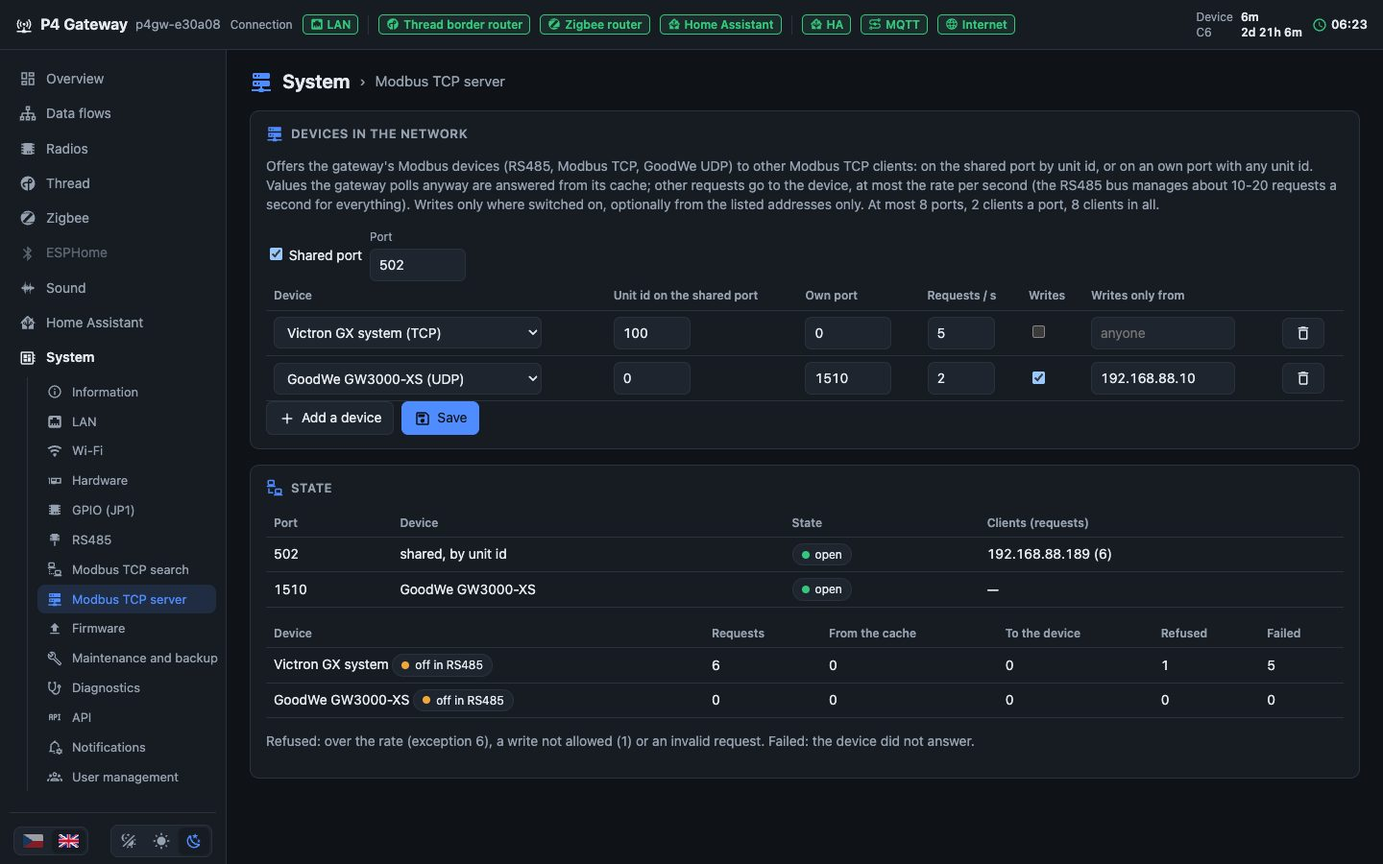
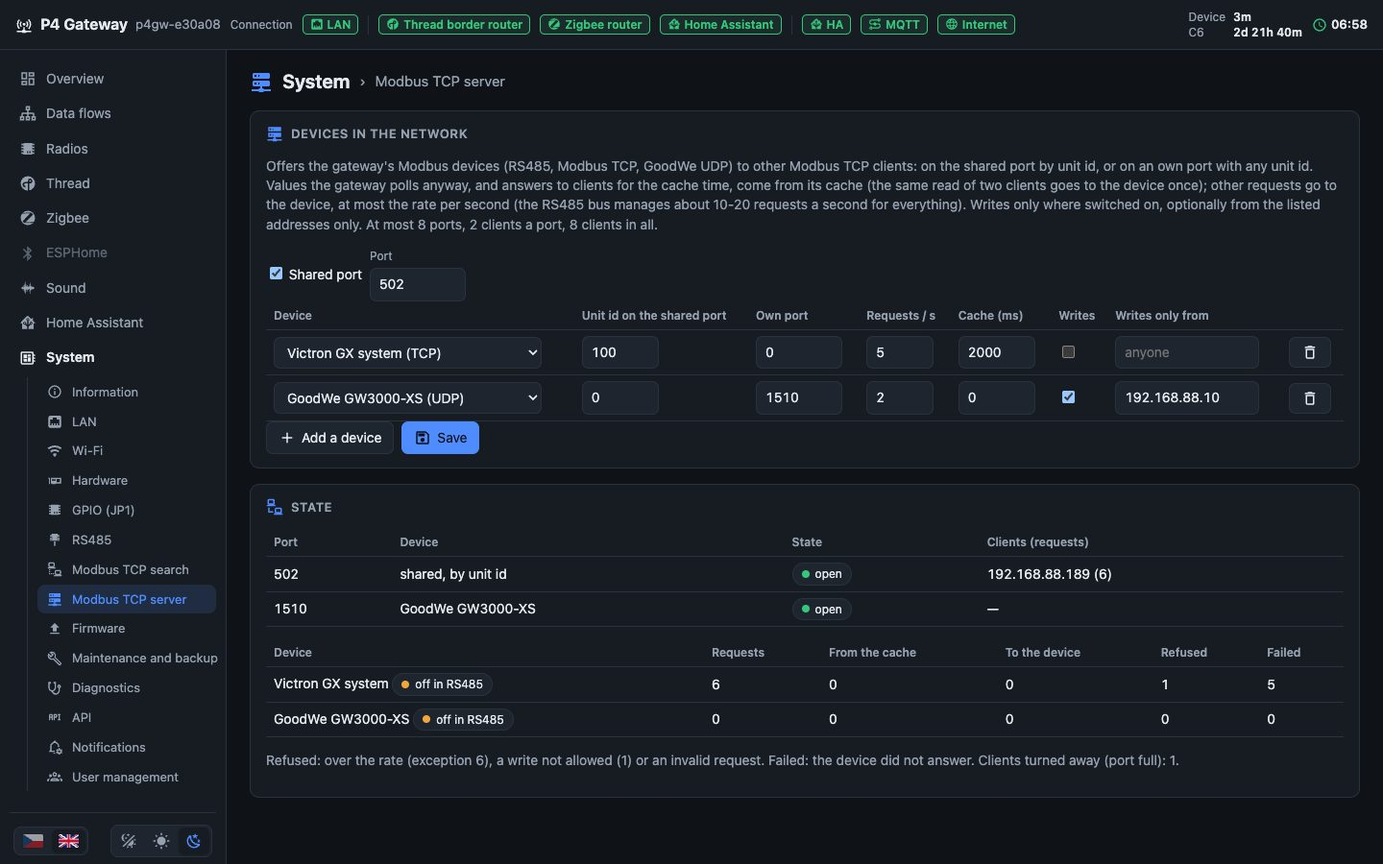
Docs: Modbus TCP server cache, queue and new load test results

diff --git a/documentation/cs/index.html b/documentation/cs/index.html
@@ -225,12 +225,12 @@
        <li>Modul Wi-Fi GoodWe (XS, MS, D-NS) odpovídá jen na UDP 8899: nechte zaškrtnuté <i>Moduly GoodWe na UDP 8899</i>, přidá se s připojením GoodWe UDP a jednotkou 127.</li></ol></div>
 <details><summary>Celá stránka (1)</summary><div class="fulls"><figure><a href="../screenshots/system_mbscan.jpg" class="zoom"><img class="shot full" src="../screenshots/system_mbscan.jpg" alt="Systém › Hledání Modbus TCP" width="1440" height="900" loading="lazy"></a><figcaption>Celá stránka</figcaption></figure></div></details>
 </section><section class="card wide" id="system-mbserver"><h3><svg class="mdi" viewBox="0 0 24 24" aria-hidden="true"><path d="M13,19H14A1,1 0 0,1 15,20H22V22H15A1,1 0 0,1 14,23H10A1,1 0 0,1 9,22H2V20H9A1,1 0 0,1 10,19H11V17H4A1,1 0 0,1 3,16V12A1,1 0 0,1 4,11H20A1,1 0 0,1 21,12V16A1,1 0 0,1 20,17H13V19M4,3H20A1,1 0 0,1 21,4V8A1,1 0 0,1 20,9H4A1,1 0 0,1 3,8V4A1,1 0 0,1 4,3M9,7H10V5H9V7M9,15H10V13H9V15M5,5V7H7V5H5M5,13V15H7V13H5Z"/></svg><span>Systém › Server Modbus TCP</span></h3><p>Nabídne zařízení Modbus brány dalším klientům Modbus TCP v síti (Victron, SCADA, PLC, aplikace výrobce).</p>
-<div class="item"><div class="item-text"><h4>Zařízení v síti</h4><p>Sdílený port (výchozí 502) a nabídnutá zařízení: unit id na něm (0: tam ne), vlastní port (zařízení dosáhne jakékoli unit id; pro klienty pevně na jednotce 1 nebo 255), dotazů za sekundu na zařízení, zápis a adresy, které smějí zapisovat (prázdné: kdokoli v síti).</p></div><div class="item-pic"><a href="../screenshots/system_mbserver__1.jpg" class="zoom"><img class="shot" src="../screenshots/system_mbserver__1.jpg" alt="DEVICES IN THE NETWORK" width="1156" height="353" loading="lazy"></a></div></div>
-<div class="item"><div class="item-text"><h4>Stav</h4><p>Každý port s klienty a po zařízeních dotazy zodpovězené z cache, poslané na zařízení, odmítnuté (nad limit: výjimka 6, nepovolený zápis: 1) a neúspěšné (bez odpovědi: 11).</p></div><div class="item-pic"><a href="../screenshots/system_mbserver__2.jpg" class="zoom"><img class="shot" src="../screenshots/system_mbserver__2.jpg" alt="STATE" width="1156" height="329" loading="lazy"></a></div></div>
+<div class="item"><div class="item-text"><h4>Zařízení v síti</h4><p>Sdílený port (výchozí 502) a nabídnutá zařízení: unit id na něm (0: tam ne), vlastní port (zařízení dosáhne jakékoli unit id; pro klienty pevně na jednotce 1 nebo 255), dotazů za sekundu na zařízení, doba cache (jak dlouho odpověď klientovi slouží dalším; 0: každé čtení na zařízení), zápis a adresy, které smějí zapisovat (prázdné: kdokoli v síti).</p></div><div class="item-pic"><a href="../screenshots/system_mbserver__1.jpg" class="zoom"><img class="shot" src="../screenshots/system_mbserver__1.jpg" alt="DEVICES IN THE NETWORK" width="1156" height="373" loading="lazy"></a></div></div>
+<div class="item"><div class="item-text"><h4>Stav</h4><p>Každý port s klienty a po zařízeních dotazy zodpovězené z cache, poslané na zařízení, odmítnuté (nad limit: výjimka 6, nepovolený zápis: 1) a neúspěšné (bez odpovědi: 11).</p></div><div class="item-pic"><a href="../screenshots/system_mbserver__2.jpg" class="zoom"><img class="shot" src="../screenshots/system_mbserver__2.jpg" alt="STATE" width="1156" height="328" loading="lazy"></a></div></div>
 <div class="howto"><h4><svg class="mdi" viewBox="0 0 24 24" aria-hidden="true"><path d="M14 10H3V12H14V10M14 6H3V8H14V6M3 16H10V14H3V16M21.5 11.5L23 13L16 20L11.5 15.5L13 14L16 17L21.5 11.5Z"/></svg>Postup</h4><ol><li>Nejdřív přidejte zařízení v Systém › RS485 (RS485, Modbus TCP nebo GoodWe UDP).</li>
        <li><b>Přidat zařízení</b>, zvolte ho, dejte mu unit id na sdíleném portu a/nebo vlastní port, <b>Uložit</b>.</li>
        <li>V klientovi zadejte adresu brány, port 502 s tím unit id (nebo vlastní port).</li>
-       <li>Hodnoty, které brána beztak čte, jdou z cache v rámci intervalu čtení a zařízení nezatěžují; ostatní registry jdou na zařízení, nejvýš v nastaveném limitu. Sběrnice RS485 zvládne zhruba 10–20 dotazů za sekundu na všechno (<a href="https://github.com/KinDR007/jc-esp32p4-ha-gateway/blob/main/docs/modbus.md#modbus-tcp-server">modbus.md</a>).</li>
+       <li>Hodnoty, které brána beztak čte, jdou z cache v rámci intervalu čtení, odpovědi klientům po dobu cache; stejné čtení dvou klientů jde na zařízení jednou. Ostatní registry jdou na zařízení, nejvýš v nastaveném limitu. Sběrnice RS485 zvládne zhruba 10–20 dotazů za sekundu na všechno (<a href="https://github.com/KinDR007/jc-esp32p4-ha-gateway/blob/main/docs/modbus.md#modbus-tcp-server">modbus.md</a>).</li>
        <li>Modbus TCP nemá přihlášení: zápis zapněte jen kde je potřeba a uveďte adresu klienta.</li></ol></div>
 <details><summary>Celá stránka (1)</summary><div class="fulls"><figure><a href="../screenshots/system_mbserver.jpg" class="zoom"><img class="shot full" src="../screenshots/system_mbserver.jpg" alt="Systém › Server Modbus TCP" width="1440" height="900" loading="lazy"></a><figcaption>Celá stránka</figcaption></figure></div></details>
 </section><section class="card wide" id="system-firmware-online"><h3><svg class="mdi" viewBox="0 0 24 24" aria-hidden="true"><path d="M6.5 20Q4.22 20 2.61 18.43 1 16.85 1 14.58 1 12.63 2.17 11.1 3.35 9.57 5.25 9.15 5.68 7.35 7.38 5.73 9.07 4.1 11 4.1 11.83 4.1 12.41 4.69 13 5.28 13 6.1V12.15L14.6 10.6L16 12L12 16L8 12L9.4 10.6L11 12.15V6.1Q9.1 6.45 8.05 7.94 7 9.43 7 11H6.5Q5.05 11 4.03 12.03 3 13.05 3 14.5 3 15.95 4.03 17 5.05 18 6.5 18H18.5Q19.55 18 20.27 17.27 21 16.55 21 15.5 21 14.45 20.27 13.73 19.55 13 18.5 13H17V11Q17 9.8 16.45 8.76 15.9 7.73 15 7V4.68Q16.85 5.55 17.93 7.26 19 9 19 11 20.73 11.2 21.86 12.5 23 13.78 23 15.5 23 17.38 21.69 18.69 20.38 20 18.5 20M12 11.05Z"/></svg><span>Systém › Firmware › Online aktualizace</span></h3><p>Aktualizace z manifestu (výchozí je poslední vydání na GitHubu), starší vydání (návrat zpět).</p>
@@ -733,7 +733,8 @@ advanced:
       &quot;port&quot;: 1502,
       &quot;write&quot;: false,
       &quot;allow&quot;: [],
-      &quot;rate&quot;: 5
+      &quot;rate&quot;: 5,
+      &quot;cache_ms&quot;: 2000
     },
     {
       &quot;device&quot;: &quot;d2&quot;,
@@ -743,7 +744,8 @@ advanced:
       &quot;allow&quot;: [
         &quot;192.168.88.20&quot;
       ],
-      &quot;rate&quot;: 2
+      &quot;rate&quot;: 2,
+      &quot;cache_ms&quot;: 2000
     }
   ]
 }</pre></details></td><td>system/rs485 · úpravy</td></tr>

diff --git a/documentation/en/index.html b/documentation/en/index.html
@@ -225,12 +225,12 @@
        <li>A GoodWe Wi-Fi module (XS, MS, D-NS) answers only on UDP 8899: keep <i>GoodWe dongles on UDP 8899</i> checked, it is added on connection GoodWe UDP with unit 127.</li></ol></div>
 <details><summary>Whole page (1)</summary><div class="fulls"><figure><a href="../screenshots/system_mbscan.jpg" class="zoom"><img class="shot full" src="../screenshots/system_mbscan.jpg" alt="System › Modbus TCP search" width="1440" height="900" loading="lazy"></a><figcaption>Whole page</figcaption></figure></div></details>
 </section><section class="card wide" id="system-mbserver"><h3><svg class="mdi" viewBox="0 0 24 24" aria-hidden="true"><path d="M13,19H14A1,1 0 0,1 15,20H22V22H15A1,1 0 0,1 14,23H10A1,1 0 0,1 9,22H2V20H9A1,1 0 0,1 10,19H11V17H4A1,1 0 0,1 3,16V12A1,1 0 0,1 4,11H20A1,1 0 0,1 21,12V16A1,1 0 0,1 20,17H13V19M4,3H20A1,1 0 0,1 21,4V8A1,1 0 0,1 20,9H4A1,1 0 0,1 3,8V4A1,1 0 0,1 4,3M9,7H10V5H9V7M9,15H10V13H9V15M5,5V7H7V5H5M5,13V15H7V13H5Z"/></svg><span>System › Modbus TCP server</span></h3><p>Offers the gateway's Modbus devices to other Modbus TCP clients in the network (Victron, SCADA, a PLC, a vendor app).</p>
-<div class="item"><div class="item-text"><h4>Devices in the network</h4><p>The shared port (default 502) and the devices offered: unit id there (0: not there), own port (any unit id reaches the device; for clients fixed to unit 1 or 255), requests per second to the device, writes and the addresses allowed to write (empty: anyone in the network).</p></div><div class="item-pic"><a href="../screenshots/system_mbserver__1.jpg" class="zoom"><img class="shot" src="../screenshots/system_mbserver__1.jpg" alt="DEVICES IN THE NETWORK" width="1156" height="353" loading="lazy"></a></div></div>
-<div class="item"><div class="item-text"><h4>State</h4><p>Every port with its clients, and per device the requests answered from the cache, sent to the device, refused (over the rate: exception 6, a write not allowed: 1) and failed (no answer: 11).</p></div><div class="item-pic"><a href="../screenshots/system_mbserver__2.jpg" class="zoom"><img class="shot" src="../screenshots/system_mbserver__2.jpg" alt="STATE" width="1156" height="329" loading="lazy"></a></div></div>
+<div class="item"><div class="item-text"><h4>Devices in the network</h4><p>The shared port (default 502) and the devices offered: unit id there (0: not there), own port (any unit id reaches the device; for clients fixed to unit 1 or 255), requests per second to the device, cache time (how long an answer to a client serves the next ones; 0: every read to the device), writes and the addresses allowed to write (empty: anyone in the network).</p></div><div class="item-pic"><a href="../screenshots/system_mbserver__1.jpg" class="zoom"><img class="shot" src="../screenshots/system_mbserver__1.jpg" alt="DEVICES IN THE NETWORK" width="1156" height="373" loading="lazy"></a></div></div>
+<div class="item"><div class="item-text"><h4>State</h4><p>Every port with its clients, and per device the requests answered from the cache, sent to the device, refused (over the rate: exception 6, a write not allowed: 1) and failed (no answer: 11).</p></div><div class="item-pic"><a href="../screenshots/system_mbserver__2.jpg" class="zoom"><img class="shot" src="../screenshots/system_mbserver__2.jpg" alt="STATE" width="1156" height="328" loading="lazy"></a></div></div>
 <div class="howto"><h4><svg class="mdi" viewBox="0 0 24 24" aria-hidden="true"><path d="M14 10H3V12H14V10M14 6H3V8H14V6M3 16H10V14H3V16M21.5 11.5L23 13L16 20L11.5 15.5L13 14L16 17L21.5 11.5Z"/></svg>How to</h4><ol><li>Add the device under System › RS485 first (RS485, Modbus TCP or GoodWe UDP).</li>
        <li><b>Add a device</b>, choose it, give it a unit id on the shared port and/or an own port, <b>Save</b>.</li>
        <li>Point the client to the gateway's address, port 502 with that unit id (or the own port).</li>
-       <li>Values the gateway reads anyway come from its cache within the read interval and do not load the device; other registers go to the device, at most the set rate. The RS485 bus manages about 10-20 requests a second for everything (<a href="https://github.com/KinDR007/jc-esp32p4-ha-gateway/blob/main/docs/modbus.md#modbus-tcp-server">modbus.md</a>).</li>
+       <li>Values the gateway reads anyway come from its cache within the read interval, answers to clients for the cache time; the same read of two clients goes to the device once. Other registers go to the device, at most the set rate. The RS485 bus manages about 10-20 requests a second for everything (<a href="https://github.com/KinDR007/jc-esp32p4-ha-gateway/blob/main/docs/modbus.md#modbus-tcp-server">modbus.md</a>).</li>
        <li>Modbus TCP has no sign-in: switch writes on only where needed and list the client's address.</li></ol></div>
 <details><summary>Whole page (1)</summary><div class="fulls"><figure><a href="../screenshots/system_mbserver.jpg" class="zoom"><img class="shot full" src="../screenshots/system_mbserver.jpg" alt="System › Modbus TCP server" width="1440" height="900" loading="lazy"></a><figcaption>Whole page</figcaption></figure></div></details>
 </section><section class="card wide" id="system-firmware-online"><h3><svg class="mdi" viewBox="0 0 24 24" aria-hidden="true"><path d="M6.5 20Q4.22 20 2.61 18.43 1 16.85 1 14.58 1 12.63 2.17 11.1 3.35 9.57 5.25 9.15 5.68 7.35 7.38 5.73 9.07 4.1 11 4.1 11.83 4.1 12.41 4.69 13 5.28 13 6.1V12.15L14.6 10.6L16 12L12 16L8 12L9.4 10.6L11 12.15V6.1Q9.1 6.45 8.05 7.94 7 9.43 7 11H6.5Q5.05 11 4.03 12.03 3 13.05 3 14.5 3 15.95 4.03 17 5.05 18 6.5 18H18.5Q19.55 18 20.27 17.27 21 16.55 21 15.5 21 14.45 20.27 13.73 19.55 13 18.5 13H17V11Q17 9.8 16.45 8.76 15.9 7.73 15 7V4.68Q16.85 5.55 17.93 7.26 19 9 19 11 20.73 11.2 21.86 12.5 23 13.78 23 15.5 23 17.38 21.69 18.69 20.38 20 18.5 20M12 11.05Z"/></svg><span>System › Firmware › Online update</span></h3><p>Updates from the manifest (by default the latest GitHub release), older releases (rollback).</p>
@@ -733,7 +733,8 @@ advanced:
       &quot;port&quot;: 1502,
       &quot;write&quot;: false,
       &quot;allow&quot;: [],
-      &quot;rate&quot;: 5
+      &quot;rate&quot;: 5,
+      &quot;cache_ms&quot;: 2000
     },
     {
       &quot;device&quot;: &quot;d2&quot;,
@@ -743,7 +744,8 @@ advanced:
       &quot;allow&quot;: [
         &quot;192.168.88.20&quot;
       ],
-      &quot;rate&quot;: 2
+      &quot;rate&quot;: 2,
+      &quot;cache_ms&quot;: 2000
     }
   ]
 }</pre></details></td><td>system/rs485 · edit</td></tr>

diff --git a/tools/docs/build_docs.py b/tools/docs/build_docs.py
@@ -436,19 +436,19 @@ PAGES = [
     ("system/mbserver", "server-network", T("System › Modbus TCP server", "Systém › Server Modbus TCP"),
      T("Offers the gateway's Modbus devices to other Modbus TCP clients in the network (Victron, SCADA, a PLC, a vendor app).",
        "Nabídne zařízení Modbus brány dalším klientům Modbus TCP v síti (Victron, SCADA, PLC, aplikace výrobce)."),
-     {"DEVICES IN THE NETWORK": T("The shared port (default 502) and the devices offered: unit id there (0: not there), own port (any unit id reaches the device; for clients fixed to unit 1 or 255), requests per second to the device, writes and the addresses allowed to write (empty: anyone in the network).",
-                                  "Sdílený port (výchozí 502) a nabídnutá zařízení: unit id na něm (0: tam ne), vlastní port (zařízení dosáhne jakékoli unit id; pro klienty pevně na jednotce 1 nebo 255), dotazů za sekundu na zařízení, zápis a adresy, které smějí zapisovat (prázdné: kdokoli v síti)."),
+     {"DEVICES IN THE NETWORK": T("The shared port (default 502) and the devices offered: unit id there (0: not there), own port (any unit id reaches the device; for clients fixed to unit 1 or 255), requests per second to the device, cache time (how long an answer to a client serves the next ones; 0: every read to the device), writes and the addresses allowed to write (empty: anyone in the network).",
+                                  "Sdílený port (výchozí 502) a nabídnutá zařízení: unit id na něm (0: tam ne), vlastní port (zařízení dosáhne jakékoli unit id; pro klienty pevně na jednotce 1 nebo 255), dotazů za sekundu na zařízení, doba cache (jak dlouho odpověď klientovi slouží dalším; 0: každé čtení na zařízení), zápis a adresy, které smějí zapisovat (prázdné: kdokoli v síti)."),
       "STATE": T("Every port with its clients, and per device the requests answered from the cache, sent to the device, refused (over the rate: exception 6, a write not allowed: 1) and failed (no answer: 11).",
                  "Každý port s klienty a po zařízeních dotazy zodpovězené z cache, poslané na zařízení, odmítnuté (nad limit: výjimka 6, nepovolený zápis: 1) a neúspěšné (bez odpovědi: 11).")},
      T("""<ol><li>Add the device under System › RS485 first (RS485, Modbus TCP or GoodWe UDP).</li>
        <li><b>Add a device</b>, choose it, give it a unit id on the shared port and/or an own port, <b>Save</b>.</li>
        <li>Point the client to the gateway's address, port 502 with that unit id (or the own port).</li>
-       <li>Values the gateway reads anyway come from its cache within the read interval and do not load the device; other registers go to the device, at most the set rate. The RS485 bus manages about 10-20 requests a second for everything (<a href=\"https://github.com/KinDR007/jc-esp32p4-ha-gateway/blob/main/docs/modbus.md#modbus-tcp-server\">modbus.md</a>).</li>
+       <li>Values the gateway reads anyway come from its cache within the read interval, answers to clients for the cache time; the same read of two clients goes to the device once. Other registers go to the device, at most the set rate. The RS485 bus manages about 10-20 requests a second for everything (<a href=\"https://github.com/KinDR007/jc-esp32p4-ha-gateway/blob/main/docs/modbus.md#modbus-tcp-server\">modbus.md</a>).</li>
        <li>Modbus TCP has no sign-in: switch writes on only where needed and list the client's address.</li></ol>""",
        """<ol><li>Nejdřív přidejte zařízení v Systém › RS485 (RS485, Modbus TCP nebo GoodWe UDP).</li>
        <li><b>Přidat zařízení</b>, zvolte ho, dejte mu unit id na sdíleném portu a/nebo vlastní port, <b>Uložit</b>.</li>
        <li>V klientovi zadejte adresu brány, port 502 s tím unit id (nebo vlastní port).</li>
-       <li>Hodnoty, které brána beztak čte, jdou z cache v rámci intervalu čtení a zařízení nezatěžují; ostatní registry jdou na zařízení, nejvýš v nastaveném limitu. Sběrnice RS485 zvládne zhruba 10–20 dotazů za sekundu na všechno (<a href=\"https://github.com/KinDR007/jc-esp32p4-ha-gateway/blob/main/docs/modbus.md#modbus-tcp-server\">modbus.md</a>).</li>
+       <li>Hodnoty, které brána beztak čte, jdou z cache v rámci intervalu čtení, odpovědi klientům po dobu cache; stejné čtení dvou klientů jde na zařízení jednou. Ostatní registry jdou na zařízení, nejvýš v nastaveném limitu. Sběrnice RS485 zvládne zhruba 10–20 dotazů za sekundu na všechno (<a href=\"https://github.com/KinDR007/jc-esp32p4-ha-gateway/blob/main/docs/modbus.md#modbus-tcp-server\">modbus.md</a>).</li>
        <li>Modbus TCP nemá přihlášení: zápis zapněte jen kde je potřeba a uveďte adresu klienta.</li></ol>"""),
      ["system_mbserver"]),
     ("system/firmware/online", "cloud-download-outline", T("System › Firmware › Online update", "Systém › Firmware › Online aktualizace"),

diff --git a/tests/TESTCASES.md b/tests/TESTCASES.md
@@ -73,7 +73,7 @@ python3 tests/hw_test.py --host <ip> --only TC04 TC05
 | TC52 | GPIO na JP1 bez propojky | `GET`/`PUT /api/gpio`, `POST /api/gpio/set`, restart | 26 pinů, piny rádia A (a rádia B s rolí) zamčené, GPIO1/2/3/45 volné; odmítnuto: pin rádia A, rádia B, GPIO mimo JP1, dvakrát, neznámý režim, PWM 2 MHz, debounce 2 s, jméno 33 znaků, neznámé expose, filtr 20 µs; vstupy čtou podle pull-up/pull-down; výstup čten zpět na pinu, inverze, pulz 0,8 s; open drain s pull-down pin pustí (0), push-pull ho drží (1); PWM 1 kHz 33 % 16 bitů; chyby set 400/404; čítač 0 a reset; po restartu výstup poslední 1, PWM posledních 33 %, invertovaný výstup zapnutý; konfigurace obnovena |
 | TC53 | GPIO přes MQTT | `--mqtt-broker` (anonymní mosquitto), skupina `gpio` | zařízení „<host> GPIO“ přes bránu: switch, binary_sensor, light (jas 0–100 = střída), senzory počet a frekvence; stav retained; příkazy ON, PULSE 1500 (zapne a vypne), střída 30, light OFF → 0; pásek WS2812 jako JSON light (RGB, duha) nastavený zprávou na `light/set`, stav na `gpio/1/light`; změna režimu a uvolnění pinu odebere staré entity a publikuje nové; piny vyměněné při vypnutém MQTT a následný restart: staré entity odebrány po připojení; skupina gpio vypnutá entity odebere; piny se nastavují až na testovacím brokeru; nastavení obnoveno importem |
 | TC54 | Funkce GPIO přes periferie bez propojky | `PUT /api/gpio`, TCP 6639, restart | odmítnuto: UART bez rx, rx = tx, rx na rádiu A, port 6638, 100 Bd, dva UARTy, rx použitý znovu, 1000 LED, 1-Wire každou 1 s, I2C 250 kHz; most UART: TCP klient pošle 18 B do UARTu, druhý klient prvního nahradí (zavřen), odpojení; pásek: neplatná barva, efekt a jas odmítnuty, barva a jas ho zapnou, duha; 1-Wire bez zařízení (present false), hledání; po restartu pásek zapnutý se svou barvou a duhou, most znovu přijímá; druhá sběrnice I2C na GPIO2/3 400 kHz, senzor na sběrnici 2 s id i2c2_76, sběrnice 3 odmítnuta, zrušení pinů sběrnici odebere; konfigurace obnovena |
-| TC55 | Server Modbus TCP | `tools/modbus/sim_tcp.py --log-reads` (eastron_sdm630 jednotka 1 na TCP 1504) a `--udp` (goodwe_xs 127) spuštěné testem | neplatná nastavení → 400 (neznámé zařízení, unit 248, port 80, vlastní port = sdílený, ani unit ani port, rate 0, allow ne adresa, write 1, unit dvakrát, sdílený port 8081); porty 502, 1505, 1506 otevřené; 502 s unit 10 vrátí napětí jako zařízení, vlastní port s unit 255 také, a to z cache (dotaz na zařízení nedojde); unit 11 → výjimka 10; neznámý registr projde na zařízení a vrátí jeho výjimku 2; rate 3/s → výjimka 6; zápis vypnutý → 1, adresa mimo allow → 1, povolená adresa → zápis dojde do simulátoru; třetí klient na portu odmítnut, stav ukáže 2 klienty; počítadla; GoodWe přes UDP odpoví na portu 1506 jako Modbus TCP (sériové číslo); konfigurace obnovena |
+| TC55 | Server Modbus TCP | `tools/modbus/sim_tcp.py --log-reads` (eastron_sdm630 jednotka 1 na TCP 1504) a `--udp` (goodwe_xs 127) spuštěné testem | neplatná nastavení → 400 (neznámé zařízení, unit 248, port 80, vlastní port = sdílený, ani unit ani port, rate 0, allow ne adresa, write 1, unit dvakrát, sdílený port 8081); porty 502, 1505, 1506 otevřené; 502 s unit 10 vrátí napětí jako zařízení, vlastní port s unit 255 také, a to z cache (dotaz na zařízení nedojde); unit 11 → výjimka 10; neznámý registr projde na zařízení a vrátí jeho výjimku 2; rate 3/s → výjimka 6; zápis vypnutý → 1, adresa mimo allow → 1, povolená adresa → zápis dojde do simulátoru; třetí klient na portu odmítnut, stav ukáže 2 klienty; počítadla; GoodWe přes UDP odpoví na portu 1506 jako Modbus TCP (sériové číslo); stejné neplatné čtení podruhé z cache (výjimka 2); pomalé zařízení (`--delay 300 --lenient`, port 1507): druhé čtení z cache, po 2,2 s znovu na zařízení, zápis zahodí blok a další čtení vrátí novou hodnotu, dva klienti se stejným čtením = jedno čtení zařízení, během pollu klient čeká < 1 s (jedna transakce), `cache_ms` 1000/6000 → 400, `cache_ms` 0 pošle každé čtení na zařízení; konfigurace obnovena |
 | TC45 | Prohození Wi-Fi mezi rádii | `POST /api/role {"swap":true}` dvakrát | Wi-Fi uplink na rádiu A (C6) s adresou a webem; rádio B běží původní roli A (Thread BR); po prohození zpět je rádio A ve své původní Thread síti |
 | TC40 | Thread síť per rádio | rádio A `zigbee_router`, rádio B `thread_br`, pak rádio B vypnuto a A zpět `thread_br` | rádio B (RCP na C5) má vlastní síť (jiné ext PAN ID), rádio A se vrátí do své původní sítě |
 | TC30 | Rozhraní integrace Home Assistant | mDNS dotaz `_p4gw._tcp`, WebSocket `/api/ws`, dočasná událost na třídu Silence, účet a token | mDNS odpoví s MAC brány; stav všech povolených událostí dorazí v jedné dávce celý a detekce ihned; bez hesla handshake 401, s heslem 101; události i účet a token obnoveny |
@@ -144,7 +144,7 @@ node tests/ui/ui_test.mjs --host <ip> --html firmware/gateway/web/index.html
 | UI34 | Hledání Modbus TCP: modul GoodWe na UDP | simulátor na UDP 8899 vypsán s jednotkou 127, Přidat ho založí na připojení `udp` se šablonou goodwe_xs, RS485 ho ukáže jako `UDP host:8899 #127`; konfigurace obnovena |
 | UI35 | Systém › LAN › Čas | servery se stavem, Jiné ukáže pole POSIX, zóna ze seznamu uložena s pravidlem POSIX (America/New_York), hodiny v záhlaví i log v pásmu brány, Telegram bez vlastního pásma odkazuje na LAN; nastavení obnoveno |
 | UI36 | Systém › GPIO (JP1) | konektor 26 pinů, GPIO4 zamčený s důvodem, GPIO2 nastavený jako výstup se zapne (pin čte 1) a pulzuje 1 s, GPIO1 PWM 2 kHz sleduje posuvník (25 %), uvolnění pinu; konfigurace obnovena |
-| UI37 | Systém › Server Modbus TCP | Přidat zařízení s unit id 77, vlastním portem 1520, limitem 4/s, zápisem a povolenou adresou; Uložit to uloží, stav ukáže otevřené porty 502 a 1520; odebrání seznam vyprázdní; konfigurace obnovena |
+| UI37 | Systém › Server Modbus TCP | Přidat zařízení s unit id 77, vlastním portem 1520, limitem 4/s, cache 3000 ms, zápisem a povolenou adresou; Uložit to uloží, stav ukáže otevřené porty 502 a 1520; odebrání seznam vyprázdní; konfigurace obnovena |
 | UI32 | Systém › RS485 | počet šablon, rychlost sběrnice, poznámka šablony s výchozími parametry; přidání zařízení ze šablony, přejmenování s diakritikou a MQTT uloženy, detail všech entit, odebrání; kopie šablony v editoru, neplatná odmítnuta s chybou, platná uložena a smazána; ruční dotaz bez zařízení „no answer“; konfigurace obnovena |
 | UI31 | Systém › Hardware | zapojení CN3, sken ukáže kodek 0x18, seznam podporovaných typů; ruční přidání nabídne jen typy pro adresu; jméno s diakritikou a Exponovat uloženy; stav chybějícího senzoru; odebrání po potvrzení; původní konfigurace obnovena |
 | UI15 | nápovědy (i) | žádný klíč nápovědy není v TIPS dvakrát; tabulky zařízení Thread a Zigbee a údaje instance Zigbee2MQTT mají vlastní nápovědy, ne texty jiných tabulek se stejným názvem sloupce |

diff --git a/docs/modbus.md b/docs/modbus.md
@@ -91,12 +91,17 @@ clients other than Home Assistant (Victron GX, SCADA, a PLC, a vendor app). Sinc
 - **Ports**: the shared port (default 502, can be switched off) routes by unit id, one unit id per
   device; an unknown unit id gets exception 10. A device may also have its own port where any unit id
   reaches it (clients fixed to unit 1 or 255). Not 80, 8081 or the Zigbee port.
-- **Data**: reads of registers the gateway polls anyway come from a cache of the raw blocks read
-  (PSRAM, one block per template entity at most, fresh for the poll interval + 2 s; a request may span
-  several blocks). Everything else goes to the device through the Modbus task, which owns the RS485 bus
-  and runs one such request between two polls; at most `rate` per second per device (1-50, default 5),
-  else exception 6. A device off or offline answers exception 10 or 11 at once, without the bus; during
-  an RS485 search RTU devices answer 6.
+- **Cache** (PSRAM, only the blocks actually read): registers the gateway polls anyway are fresh for the
+  poll interval + 2 s; answers to clients (16 per device, an exception 2 too) serve the next clients for
+  `cache_ms` (1500-5000 ms, default 2000). A request may span several blocks. A write (from a client, the
+  API, MQTT or Home Assistant) drops every cached block it touches. `cache_ms` 0 turns the cache off for
+  the device (registers that change when read: alarms cleared, event queues): every read goes to it.
+- **Queue**: everything else goes to the device through the Modbus task, which owns the RS485 bus. It
+  takes the waiting requests in order between two polls and between the blocks of a poll, so a client
+  waits for one transaction at most, not for a whole poll (measured: 0.5 s instead of 1.6 s with blocks of
+  300 ms). Two clients reading the same while it is on its way cost one transaction. At most `rate`
+  requests per second per device go to it (1-50, default 5), else exception 6. A device off or offline
+  answers exception 10 or 11 at once, without the bus; during an RS485 search RTU devices answer 6.
 - **Writes** (functions 5, 6, 15, 16) only with `write`, and when `allow` lists addresses (up to 4),
   only from them; else exception 1. Modbus TCP has no sign-in.
 - **Limits**: 16 devices, 8 ports (the shared one counts), 2 clients per port, 8 clients in all (more
@@ -112,16 +117,18 @@ transactions per second for the gateway's own polling, writes and every TCP clie
 task serves every socket with `select()`; frames are at most 260 bytes.
 
 Measured 2026-11-06 with `tools/modbus/server_load.py` (8 clients on 502 and three own ports, three
-SDM630 on the Modbus TCP simulator, poll 3 s, rate 50, role Thread border router):
+SDM630 on the Modbus TCP simulator, poll 3 s, rate 50, cache 2000 ms, role Thread border router; every
+read meant for the device asks another address, so the cache of answers does not catch it):
 
 | Load | Answers/s | Cache p50 / p95 | Device p50 / p95 | `/api/status` p50 / max | Internal heap |
 |---|---|---|---|---|---|
 | idle (no client) | - | - | - | 62 / 142 ms | - |
-| 8 clients, a request every 0.5 s each | 16 | 1.3 / 3.8 ms | 8 / 25 ms | 32 / 138 ms | -6 kB |
-| 8 clients as fast as answered | 1020 | 3.2 / 8.2 ms | 8 / 27 ms (52/s per device, the rest exception 6) | 179 / 310 ms | -6.5 kB |
+| 8 clients, a request every 0.5 s each | 16 | 1.6 / 4.4 ms | 8 / 11 ms | 32 / 135 ms | -4 kB |
+| 8 clients as fast as answered (two runs) | 1160-1220 | 1.3 / 2.7 ms | 24 / 60 ms (about 65/s per device, the rest exception 6) | 141 / 236-1400 ms | -10 kB |
 
-No restart, the role and the device polling (every 3 s) went on in both runs. A device on RS485 is
-slower than the simulator: its requests take the bus times above.
+No restart, the role and the device polling (every 3 s) went on in every run; at full load one sample of
+`/api/status` took 1.4 s in one of the two runs and 4 of 11 500 device reads timed out (exception 11).
+A device on RS485 is slower than the simulator: its requests take the bus times above.
 
 ## Home Assistant
 
@@ -267,7 +274,10 @@ The templates are generated from tables in `tools/modbus/gen_sdm.py`, `tools/mod
   GoodWe on UDP: invalid settings refused, routing by unit id on 502 and any unit id on an own port,
   polled registers from the cache with no read reaching the device, other reads passed through (the
   device's exception too), the rate refusing with 6, writes refused and allowed per address, a third
-  client turned away, the GoodWe answering as Modbus TCP. UI37: the page. The unit test checks the
+  client turned away, the GoodWe answering as Modbus TCP; with a second simulator answering after 300 ms
+  (`--delay`): answers to clients and an exception kept for the cache time, a write dropping them, one
+  device read for two clients reading the same, a client waiting one transaction during a poll,
+  `cache_ms` 0. UI37: the page. The unit test checks the
   request decoding and answers of the server and the cache's block extraction.
   `tools/modbus/server_load.py`: the load test above.
 - Integration tests (`tests/ha_integration`), UI32.

diff --git a/CHANGELOG.md b/CHANGELOG.md
@@ -5,11 +5,13 @@
 - Modbus TCP server, System › Modbus TCP server (`GET`/`PUT /api/modbus/server`): the gateway's Modbus
   devices (RS485, Modbus TCP, GoodWe UDP) for other Modbus TCP clients in the network. The shared port
   502 routes by unit id, a device may also get its own port (any unit id). Reads of polled registers come
-  from a cache of the blocks read, others go to the device at most `rate` per second (else exception 6);
+  from a cache of the blocks read, and for `cache_ms` (1500-5000 ms, default 2000; 0 off) so do answers to
+  clients; a write drops what it touches; the same read of two clients goes to the device once. Requests
+  wait between the blocks of a poll, not for the whole poll; at most `rate` per second (else exception 6);
   writes only where switched on, optionally only from listed addresses. Up to 8 ports, 2 clients per port,
   8 in all. lwIP limits raised: 40 sockets, 32 active and 24 listening TCP connections.
 - Tests: TC55, UI37, unit tests of the server's request decoding; `tools/modbus/server_load.py` (load
-  test, results in docs/modbus.md); the simulator logs reads with `--log-reads`.
+  test, results in docs/modbus.md); the simulator logs reads with `--log-reads`, `--delay` plays a slow device.
 
 ## v1.13 (2026-11-06)
 
